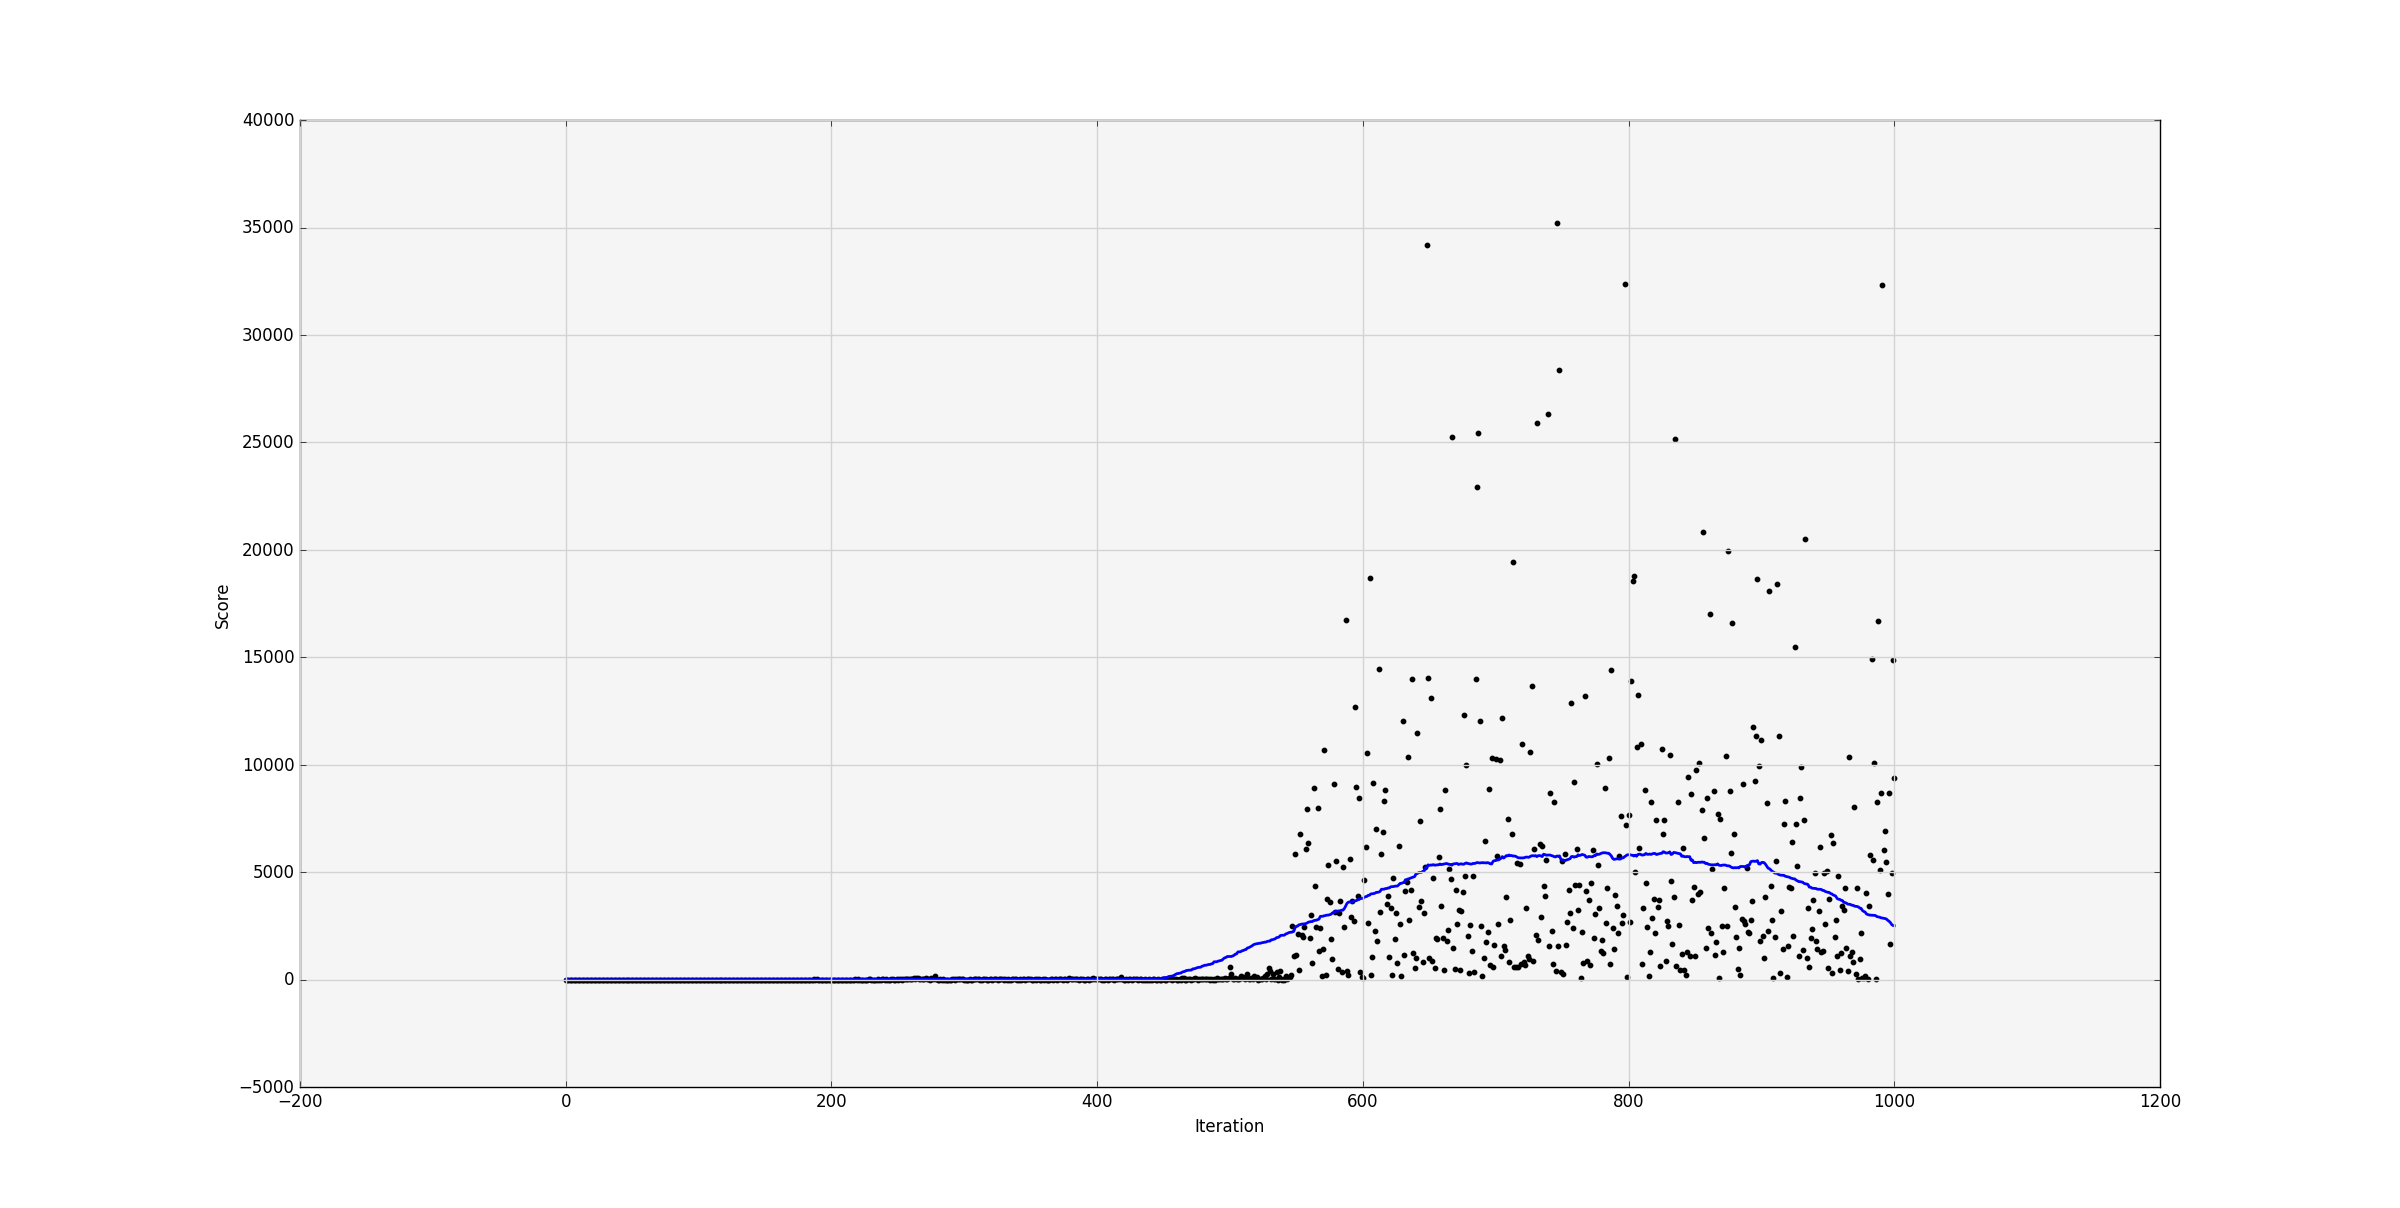
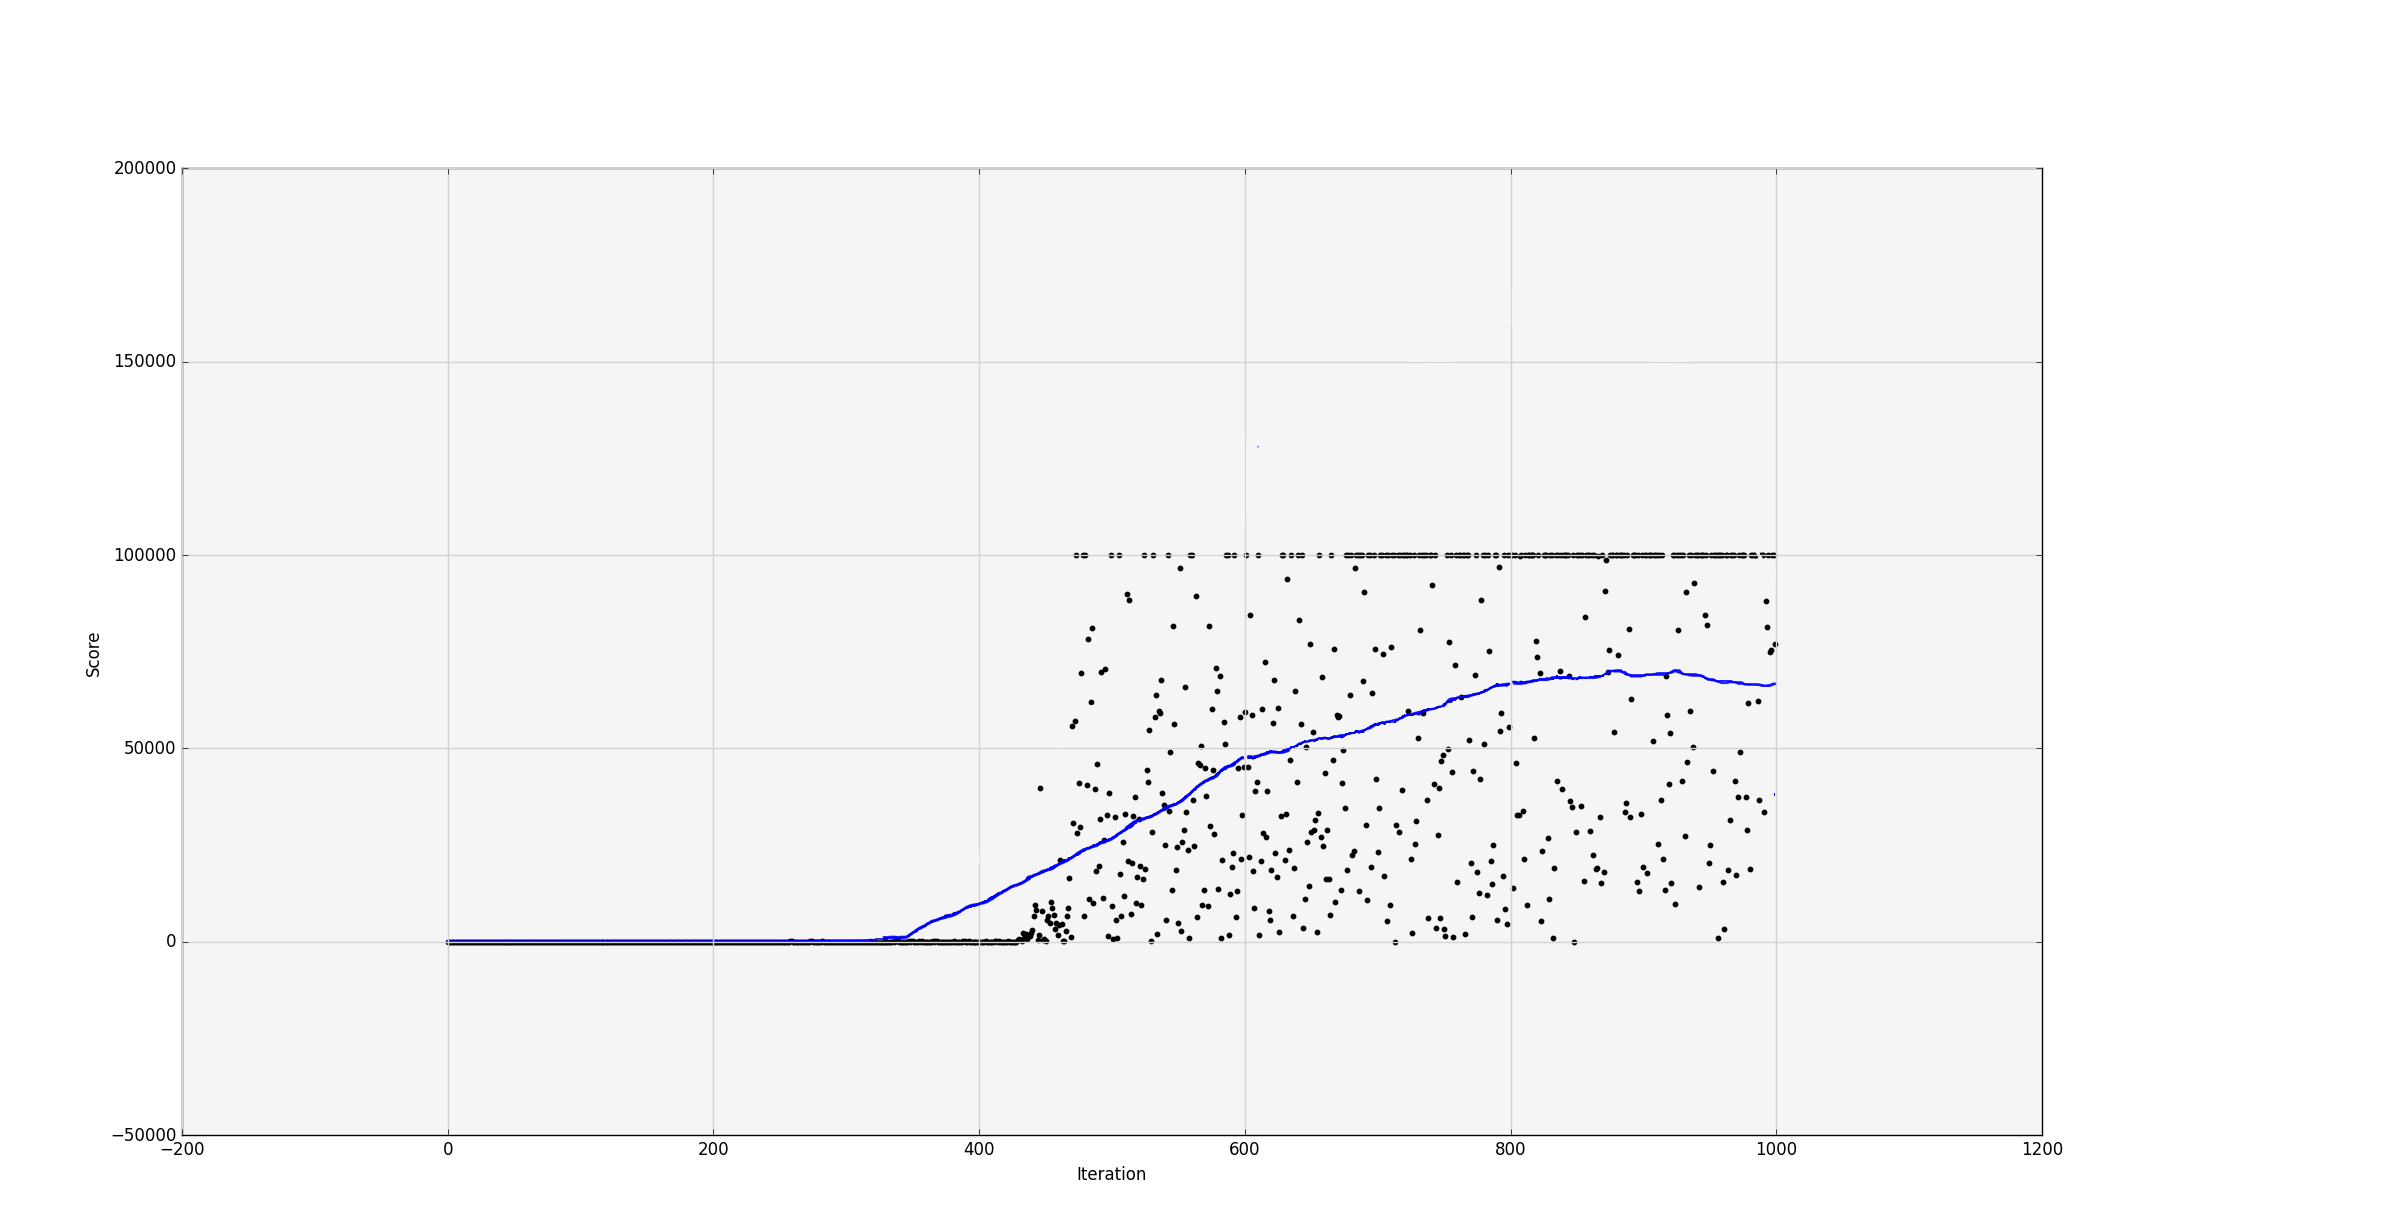
minor fixes

diff --git a/data/plotter.py b/data/plotter.py
@@ -13,15 +13,12 @@ class Plotter:
         plt.style.use('classic')
 
         plt.scatter(range(len(self.episode_scores)), self.episode_scores, s=10, color='black')
-        plt.plot(np.convolve(self.episode_scores, np.ones(250) / 100, mode='same'), color='blue', linewidth=2)
+        plt.plot(np.convolve(self.episode_scores, np.ones(250) / 250, mode='same'), color='blue', linewidth=2)
 
-        # Set the labels for the axes
         plt.xlabel('Iteration')
         plt.ylabel('Score')
 
-        # Enable grid with a light grey color
         plt.grid(True, color='lightgrey', linestyle='-', linewidth=1)
-        # Set the face (background) color of the axes
         plt.gca().set_facecolor('whitesmoke')
 
         plt.show()

diff --git a/learn.py b/learn.py
@@ -51,7 +51,7 @@ if __name__ == "__main__":
     parser.add_argument('--alpha', type=float, default=0.2)
     parser.add_argument('--gamma', type=float, default=0.99)
     parser.add_argument('--epsilon', type=float, default=-1.0)
-    parser.add_argument('--episode_number', type=int, default=1001)
+    parser.add_argument('--episode_number', type=int, default=1000)
     parser.add_argument('--plotting', type=bool, default=True)
 
     args = parser.parse_args()

diff --git a/README.md b/README.md
@@ -40,30 +40,32 @@ $$Q(s, a) = Q(s, a) + \alpha \left[ R(s, a) + \gamma \max_{a'} Q(s', a') - Q(s, 
 
 # Results
 
-- I've run several training sessions, and found, that with a relatively low $\alpha$ (0.2), and high $\gamma$ (0.99), the agent is able to converge *very fast*, in about 400 episodes.
+- I've run several training sessions, and found, that with a relatively low $\alpha$ (0.2), and high $\gamma$ (0.99), the agent is able to converge *fast*, in about 500 episodes.
 - Given, that the state-space is relatively small, I kept $\epsilon$ (the exploration factor) at 0, because I found, that even at really low values (1e-10), the agent performs significantly worse.
-- Below is the result of 1000 training episodes, where after 400 episodes the agent averaged above 5000 points.
-
+- Below is the result of 1000 training episodes, where after 600 episodes the agent averaged above 60000 points. 
+- The maximum score was limited to 100000 to keep the running time reasonble. (It was ~11 hours)
+- The trained table is available at data/trained.npy
 <p align="center">
-  <img src=res/readme/result.png alt="Play" width="75%">
+  <img src=res/readme/result.png alt="Play" width="85%">
+
 </p>
 
 
-### Running the Application
+## Running the Application
 
 This project can be executed with customizable parameters via command-line arguments using pythons argparser.
 
 Below are the available options:
 
-| Command            | Description                                                            |
-|--------------------|------------------------------------------------------------------------|
-| `--alpha`          | Learning rate. Default is 0.2.                                         |
-| `--gamma`          | Discount factor. Default is 0.99.                                      |
-| `--epsilon`        | Exploration factor. Default is -1.0 (disabled).                        |
-| `--episode_number` | Number of episodes for training. Default is 1001.                      |
-| `--plotting`       | Enables result plotting post-training.                                 |
-| `--frame_skip`     | Frames to skip before screen update. Default is 1000.                  |
-| `--q_table`        | Path to pre-trained Q-table. Default is 'data/trained.npy'.             |
+| Command            | Description                                                 |
+|--------------------|-------------------------------------------------------------|
+| `--alpha`          | Learning rate. Default is 0.2.                              |
+| `--gamma`          | Discount factor. Default is 0.99.                           |
+| `--epsilon`        | Exploration factor. Default is -1.0 (disabled).             |
+| `--episode_number` | Number of episodes for training. Default is 1000.           |
+| `--plotting`       | Enables result plotting post-training.                      |
+| `--frame_skip`     | Frames to skip before screen update. Default is 1000.       |
+| `--q_table`        | Path to pre-trained Q-table. Default is 'data/trained.npy'. |
 
 To run a learning session, execute
 
@@ -75,7 +77,7 @@ To customize parameters, include them as follows:
 python learn.py --alpha 0.1 --gamma 0.95 --epsilon 0.01 --episode_number 500 --plotting True 
 ```
 
----
+
 To run a playing session with graphical interface, execute
 
 ```
@@ -85,7 +87,7 @@ To customize parameters, include them as follows:
 ```
 python play.py --frame_skip 1000 --q_table data/trained.npy
 ```
-### Credits
+# Credits
 
 [Cihan](https://github.com/chncyhn/flappybird-qlearning-bot)
 
